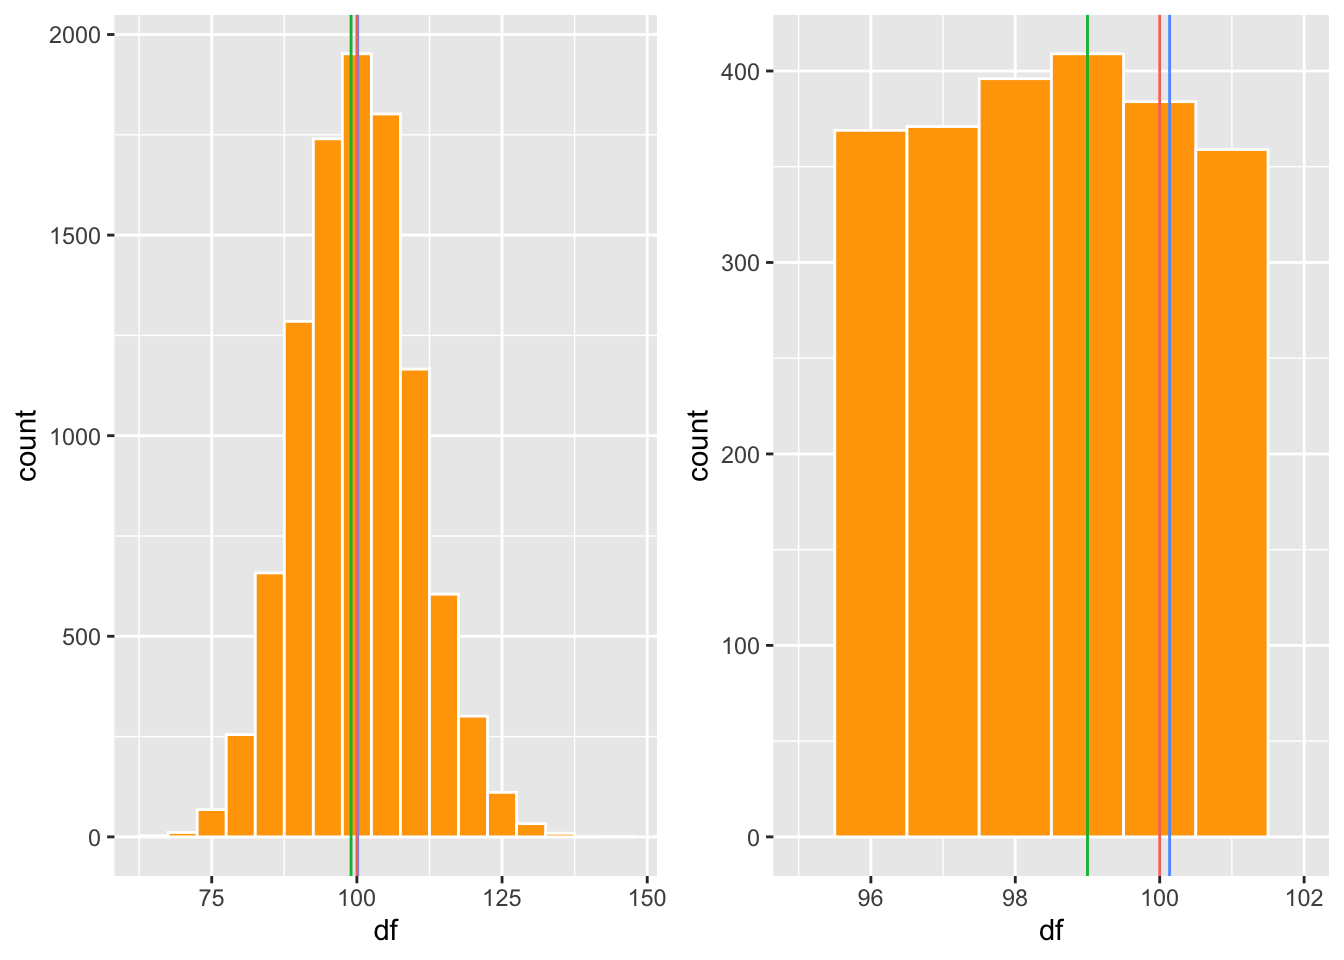
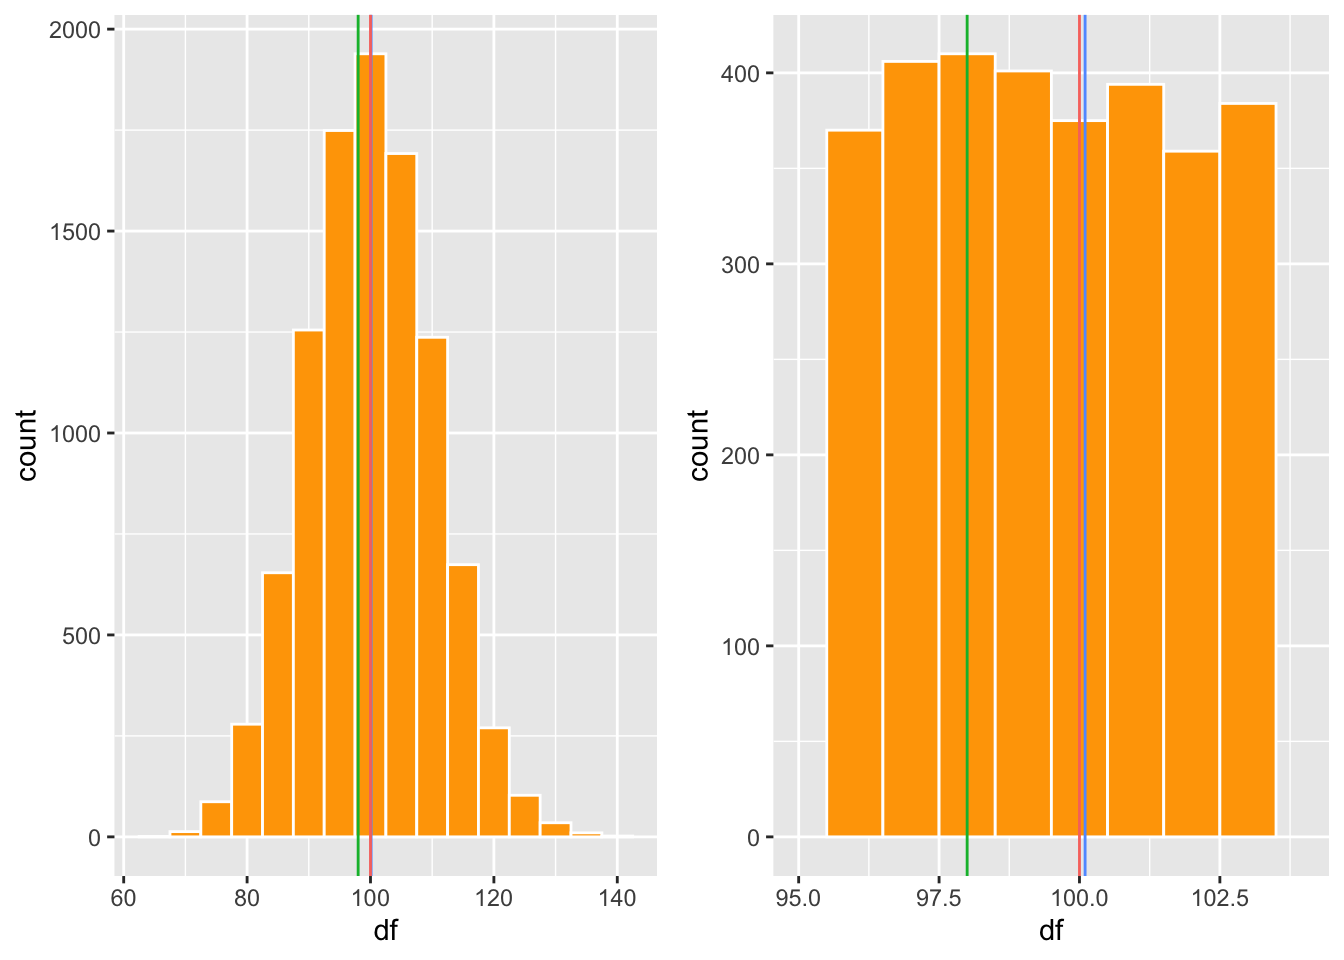
dispersion

diff --git a/Medidas_tendencia_central.html b/Medidas_tendencia_central.html
@@ -379,10 +379,10 @@ div.tocify {
       <a href="Tema_2_Historia.html">Historia breve de la estadística cuantitativa</a>
     </li>
     <li>
-      <a href="Medidas_tendencias_central.html">Medidas de Tedencias Central</a>
+      <a href="Medidas_tendencia_central.html">Medidas de Tedencias Central</a>
     </li>
     <li>
-      <a href="Medidas_disperción.html">Medidas de Disperción</a>
+      <a href="Medidas_dispersión.html">Medidas de Dispersión</a>
     </li>
     <li>
       <a href="Tema_3_Graficos.html">Explorando los datos con gráficos</a>
@@ -443,7 +443,7 @@ div.tocify {
 
 
 <p>Fecha de la ultima revisión</p>
-<pre><code>## [1] &quot;2020-07-12&quot;</code></pre>
+<pre><code>## [1] &quot;2020-07-14&quot;</code></pre>
 <pre class="r"><code>library(ggplot2)
 library(Hmisc)
 library(gridExtra) # Un paquete para organizar las figuras de ggplot2</code></pre>
@@ -512,18 +512,18 @@ b</code></pre>
 </div>
 </div>
 <div id="cuando-es-que-el-promedio-merdiana-y-moda-son-iguales" class="section level1">
-<h1>Cuando es que el promedio, merdiana y moda son iguales</h1>
+<h1>Cuando es que el promedio, merdiana y moda son iguales?</h1>
 <p>Los tres valores de tendencia central son iguales cuando la distribución es normal, conocida también como en forma de campana. Aquí preparo un lista de datos con distribución normal, y evaluamos donde están los tres valores de tendencia central. Se usa la función <strong>rpois</strong>, para crear un conjunto de datos al azar con 100000, datos, un promedio de 100.</p>
 <pre class="r"><code>df=rpois(10000, 100)
 df=data.frame(df)</code></pre>
 <p>Lo que uno observa es que los tres valores son muy cercano uno del otro.</p>
 <pre class="r"><code>mean(df$df)</code></pre>
-<pre><code>## [1] 100.1372</code></pre>
+<pre><code>## [1] 100.1001</code></pre>
 <pre class="r"><code>median(df$df)</code></pre>
 <pre><code>## [1] 100</code></pre>
 <pre class="r"><code>mfv(df$df)</code></pre>
-<pre><code>## [1] 99</code></pre>
-<p>Podemos visualizar estos datos usamos dos gráfico, En el gráfico de la izquierda se ve una distribución normal con las tres lineas (promedio, mediana y moda). En el gráfico de la derecha se observa la misma información pero solamente los valores entre 96 y 101. Se observa que la mediana y el promedio son igual y la moda varia un poco, se encuentra donde la barra es más alta.</p>
+<pre><code>## [1] 98</code></pre>
+<p>Podemos visualizar estos datos usamos dos gráfico, En el gráfico de la izquierda se ve una distribución normal con las tres lineas (promedio, mediana y moda). En el gráfico de la derecha se observa la misma información pero solamente los valores entre 96 y 101. Se observa que la mediana y el promedio son igual y la moda varia un poco, se encuentra donde la barra es más alta. Se observa que los tres valores son cerca del centro.</p>
 <pre class="r"><code>mea=mean(df$df)
 med=median(df$df)
 mod=mfv(df$df)
@@ -534,21 +534,55 @@ mod=mfv(df$df)
 a=ggplot(df, aes(df ))+
   geom_histogram(fill=&quot;orange&quot;, colour=&quot;white&quot;, binwidth = 5)+
   geom_vline(aes(xintercept = mea, colour=&quot;red&quot;))+
-  geom_vline(aes(xintercept = med, colour=&quot;black&quot;))+
+  geom_vline(aes(xintercept = med, colour=&quot;blue&quot;))+
   geom_vline(aes(xintercept = mod, colour=&quot;green&quot;))+
   theme(legend.position = &quot;none&quot;)
 
 b=ggplot(df, aes(df ))+
   geom_histogram(fill=&quot;orange&quot;, colour=&quot;white&quot;, binwidth = 1)+
   geom_vline(aes(xintercept = mea, colour=&quot;red&quot;))+
-  geom_vline(aes(xintercept = med, colour=&quot;black&quot;))+
+  geom_vline(aes(xintercept = med, colour=&quot;blue&quot;))+
   geom_vline(aes(xintercept = mod, colour=&quot;green&quot;))+
-  xlim(95,102)+
+  xlim(95,104)+
   theme(legend.position = &quot;none&quot;)
 
 
 grid.arrange(a,b, ncol=2)</code></pre>
-<p><img src="Medidas_tendencia_central_files/figure-html/unnamed-chunk-12-1.png" width="672" /> ```</p>
+<p><img src="Medidas_tendencia_central_files/figure-html/unnamed-chunk-12-1.png" width="672" /></p>
+<div id="distribucion-cuando-los-tres-valores-de-tendencia-centrtal-no-son-iguales.-en-estas-distribuciones-uno-observa-que-hay-exceso-de-vaslores-pequeños-o-grande.-esto-resulta-en-que-los-tres-indices-de-tendencias-centrales-no-se-encuentra-cerca-uno-del-otro." class="section level2">
+<h2>Distribucion cuando los tres valores de tendencia centrtal no son iguales. En estas distribuciones uno observa que hay exceso de vaslores pequeños o grande. Esto resulta en que los tres indices de tendencias centrales no se encuentra cerca uno del otro.</h2>
+<pre class="r"><code>dfb= round(rbeta(100000, 3,1, ncp = 0),3)
+dfb=data.frame(dfb)
+
+dfbb= round(rbeta(100000, 1,3, ncp = 0),3)
+dfbb=data.frame(dfbb)</code></pre>
+<pre class="r"><code>mea=mean(dfb$dfb)
+med=median(dfb$dfb)
+mod=mfv(dfb$dfb)
+mod</code></pre>
+<pre><code>## [1] 0.998</code></pre>
+<pre class="r"><code>meab=mean(dfbb$dfbb)
+medb=median(dfbb$dfbb)
+modb=mfv(dfbb$dfbb)
+
+
+ggplot(dfb, aes(dfb))+
+  geom_histogram(fill=&quot;orange&quot;, colour=&quot;white&quot;)+
+  geom_vline(aes(xintercept = mea, colour=&quot;red&quot;))+
+  geom_vline(aes(xintercept = med, colour=&quot;black&quot;))+
+  geom_vline(aes(xintercept = mod, colour=&quot;green&quot;))+
+  theme(legend.position = &quot;none&quot;)</code></pre>
+<p><img src="Medidas_tendencia_central_files/figure-html/unnamed-chunk-14-1.png" width="672" /></p>
+<pre class="r"><code>d=ggplot(dfbb, aes(dfbb ))+
+  geom_histogram(fill=&quot;orange&quot;, colour=&quot;white&quot;)+
+  geom_vline(aes(xintercept = meab, colour=&quot;red&quot;))+
+  geom_vline(aes(xintercept = medb, colour=&quot;black&quot;))+
+  geom_vline(aes(xintercept = modb, colour=&quot;green&quot;))+
+  theme(legend.position = &quot;none&quot;)
+
+grid.arrange(c,d, ncol=2)</code></pre>
+<p><img src="Medidas_tendencia_central_files/figure-html/unnamed-chunk-14-2.png" width="672" /></p>
+</div>
 </div>
 
 

diff --git a/Medidas_dispersión.html b/Medidas_dispersión.html
@@ -684,6 +684,7 @@ es_a</code></pre>
 <pre><code>## [1] 0.1444401</code></pre>
 <pre class="r"><code>es_b</code></pre>
 <pre><code>## [1] 1.363112</code></pre>
+<hr />
 </div>
 <div id="el-intervalo-de-confianza-de-95-del-promedio" class="section level1">
 <h1>El intervalo de confianza de 95% del promedio</h1>
@@ -724,9 +725,11 @@ CIb=ggplot(b, aes(b))+
 
 grid.arrange(CIa,CIb, ncol=2)</code></pre>
 <p><img src="Medidas_dispersio%CC%81n_files/figure-html/unnamed-chunk-13-1.png" width="672" /></p>
+<hr />
 <div id="el-intervalos-de-confianza-de-los-datos" class="section level2">
 <h2>El intervalos de confianza de los datos</h2>
 <p>Para tener una idea de la distribución de los datos y cual es el porcentaje de valores que esté incluido (asumiendo una distribución normal). Podemos crear un gráfico que demuestra el porcentaje incluidos basado en la desviación estándar. Nota aquí no es la dispersión del promedio pero la dispersión de los datos en la población.</p>
+<hr />
 </div>
 <div id="rangos-incluidos-en-intervalos-de-confianza" class="section level2">
 <h2>Rangos incluidos en intervalos de confianza</h2>
@@ -773,14 +776,8 @@ promCol=Col%&gt;%
   summarize(Mean=mean(Col))
   
 sdCol=Col%&gt;%
-  summarize(sd=sd(Col))
-
-promCol-3*sdCol</code></pre>
-<pre><code>##       Mean
-## 1 79.30985</code></pre>
-<pre class="r"><code>max(Col$Col)</code></pre>
-<pre><code>## [1] 361.1119</code></pre>
-<p>Visualizar los datos: Uds conoce su nivel de colesterol total? Donde se encuentra en esta distribución?</p>
+  summarize(sd=sd(Col))</code></pre>
+<p>Visualizar los datos: Uds conoce su nivel de colesterol total? Donde se encuentra en esta distribución? Se encuentra en el 68%? Nota que la suma de todos los porcentaje es igual a 100%.</p>
 <pre class="r"><code>library(grid)
 library(gtable)
 
@@ -817,11 +814,12 @@ geom_vline(aes(xintercept = as.numeric(promCol-3*sdCol)), colour=&quot;orange&qu
   annotate(&quot;text&quot;, x=70, y = .0005, label=&quot;0.1%&quot;)+
   annotate(&quot;text&quot;, x=330, y = .0005, label=&quot;0.1%&quot;)</code></pre>
 <p><img src="Medidas_dispersio%CC%81n_files/figure-html/unnamed-chunk-15-1.png" width="672" /></p>
-<pre class="r"><code>labels.comb</code></pre>
-<pre><code>##  [1] &quot;0&quot;          &quot;79&quot;         &quot;\n-3sd&quot;     &quot;118&quot;        &quot;\n-2sd&quot;    
-##  [6] &quot;157&quot;        &quot;\n-1sd&quot;     &quot;197&quot;        &quot;\npromedio&quot; &quot;235&quot;       
-## [11] &quot;\n+1sd&quot;     &quot;274&quot;        &quot;\n+2sd&quot;     &quot;314&quot;        &quot;\n+3sd&quot;    
-## [16] &quot;379&quot;</code></pre>
+<hr />
+</div>
+<div id="otro-ejemplo-de-los-intevalos-de-confianzas" class="section level2">
+<h2>Otro ejemplo de los intevalos de confianzas</h2>
+<div id="la-altura-de-los-humanos" class="section level3">
+<h3>La altura de los humanos</h3>
 <p>Para evaluar el 95% de intervalo de confianza usaremos datos de la alturas de 500 adultos. Estos datos fueron bajado del siguiente website <a href="https://www.kaggle.com/yersever/500-person-gender-height-weight-bodymassindex/data" class="uri">https://www.kaggle.com/yersever/500-person-gender-height-weight-bodymassindex/data</a></p>
 <pre class="r"><code>library(readr)
 Alturas_Humanos &lt;- read_csv(&quot;Data_files_csv/Alturas_Humanos.csv&quot;)
@@ -1238,8 +1236,9 @@ geom_vline(aes(xintercept = as.numeric(promM-2*sdM)), colour=&quot;red&quot;)+
   geom_vline(aes(xintercept = as.numeric(promM+2*sdM)), colour=&quot;red&quot;)</code></pre>
 <p><img src="Medidas_dispersio%CC%81n_files/figure-html/unnamed-chunk-18-1.png" width="672" /></p>
 </div>
-<div id="ahora-prepara-el-mismo-gráfico-para-los-hombres." class="section level2">
-<h2>Ahora prepara el mismo gráfico para los hombres.</h2>
+<div id="ejercicio-ahora-prepara-el-mismo-gráfico-para-los-hombres." class="section level3">
+<h3>Ejercicio: Ahora prepara el mismo gráfico para los hombres.</h3>
+</div>
 </div>
 </div>
 

diff --git a/Tema_2_Historia.html b/Tema_2_Historia.html
@@ -379,10 +379,10 @@ div.tocify {
       <a href="Tema_2_Historia.html">Historia breve de la estadística cuantitativa</a>
     </li>
     <li>
-      <a href="Medidas_tendencias_central.html">Medidas de Tedencias Central</a>
+      <a href="Medidas_tendencia_central.html">Medidas de Tedencias Central</a>
     </li>
     <li>
-      <a href="Medidas_disperción.html">Medidas de Disperción</a>
+      <a href="Medidas_dispersión.html">Medidas de Dispersión</a>
     </li>
     <li>
       <a href="Tema_3_Graficos.html">Explorando los datos con gráficos</a>
@@ -443,7 +443,7 @@ div.tocify {
 
 
 <p>Fecha de la ultima revisión</p>
-<pre><code>## [1] &quot;2020-07-12&quot;</code></pre>
+<pre><code>## [1] &quot;2020-07-14&quot;</code></pre>
 <div id="definición-de-lo-que-es-la-estadística" class="section level2">
 <h2>Definición de lo que es la estadística</h2>
 <p>La estadística es un área de la ciencia de datos que utiliza valores numéricos para evaluar patrones y inferir situaciones futuras. Esta definición es sencilla, pero incluye muchos temas pero lo más importante es el componente de utilizar datos, resumiendo estos en indices o parámetros y utilizar estos para predecir el futuro. La palabra estadística usado en el termino más o menos similar a su definición de hoy probablemente origina del alemán <em>Statistik</em> por Gottfried Achenwall (1749). Donde el termino era para la descripción de datos del estado. Es solamente en 1791 por Sir John Sinclair que el termino comenzó a ser utilizado para la descripción de conjuntos de datos en general sin ser limitado a datos de un estado/pais.</p>

diff --git a/Tema_4_supuestos.html b/Tema_4_supuestos.html
@@ -304,10 +304,10 @@ $(document).ready(function () {
       <a href="Tema_2_Historia.html">Historia breve de la estadística cuantitativa</a>
     </li>
     <li>
-      <a href="Medidas_tendencias_central.html">Medidas de Tedencias Central</a>
+      <a href="Medidas_tendencia_central.html">Medidas de Tedencias Central</a>
     </li>
     <li>
-      <a href="Medidas_disperción.html">Medidas de Disperción</a>
+      <a href="Medidas_dispersión.html">Medidas de Dispersión</a>
     </li>
     <li>
       <a href="Tema_3_Graficos.html">Explorando los datos con gráficos</a>
@@ -369,7 +369,7 @@ $(document).ready(function () {
 
 
 <p>Fecha de la ultima revisión</p>
-<pre><code>## [1] &quot;2020-07-12&quot;</code></pre>
+<pre><code>## [1] &quot;2020-07-14&quot;</code></pre>
 <p>Add and activate packages. NOTE THE NEW FUNCTION to install all packages ONLY IF Needed…..</p>
 <p>Visualize the distribution of the data “Histogram”</p>
 <p>Los datos son de un festival de Rock y Heavy Metal en UK La categoria son 0 = You smell like a rotting corpse 4 = You smell like of sweet roses</p>

diff --git a/R_basico.html b/R_basico.html
@@ -379,10 +379,10 @@ div.tocify {
       <a href="Tema_2_Historia.html">Historia breve de la estadística cuantitativa</a>
     </li>
     <li>
-      <a href="Medidas_tendencias_central.html">Medidas de Tedencias Central</a>
+      <a href="Medidas_tendencia_central.html">Medidas de Tedencias Central</a>
     </li>
     <li>
-      <a href="Medidas_disperción.html">Medidas de Disperción</a>
+      <a href="Medidas_dispersión.html">Medidas de Dispersión</a>
     </li>
     <li>
       <a href="Tema_3_Graficos.html">Explorando los datos con gráficos</a>
@@ -443,7 +443,7 @@ div.tocify {
 
 
 <p>Fecha de la ultima revisión</p>
-<pre><code>## [1] &quot;2020-07-12&quot;</code></pre>
+<pre><code>## [1] &quot;2020-07-14&quot;</code></pre>
 <p>En este veremos como se hace cálculos básicos en R. NOta que aqui estamos usando R, como si fuese una calculadora. Realmente para la gran mayoría de los ejemplos aquí no hay ninguna necesidad de utilizar R para los siguientes análisis. Los objetivos son</p>
 <ol style="list-style-type: decimal">
 <li>Familiarizarse con funciones básica</li>

diff --git a/Tema_3_Graficos.html b/Tema_3_Graficos.html
@@ -380,10 +380,10 @@ div.tocify {
       <a href="Tema_2_Historia.html">Historia breve de la estadística cuantitativa</a>
     </li>
     <li>
-      <a href="Medidas_tendencias_central.html">Medidas de Tedencias Central</a>
+      <a href="Medidas_tendencia_central.html">Medidas de Tedencias Central</a>
     </li>
     <li>
-      <a href="Medidas_disperción.html">Medidas de Disperción</a>
+      <a href="Medidas_dispersión.html">Medidas de Dispersión</a>
     </li>
     <li>
       <a href="Tema_3_Graficos.html">Explorando los datos con gráficos</a>
@@ -445,7 +445,7 @@ div.tocify {
 
 
 <p>Fecha de la ultima revisión</p>
-<pre><code>## [1] &quot;2020-07-12&quot;</code></pre>
+<pre><code>## [1] &quot;2020-07-14&quot;</code></pre>
 <pre class="r"><code>library(ggplot2)</code></pre>
 <p>La información utilizada en este documento proviene en parte del libro <em>Discovering Statistics using R</em> por Andy Field, Jeremy Miles y Zoë Field (2014).</p>
 <div id="como-crear-una-gráfica-de-regresión-lineal-usando-ggplot" class="section level1">

diff --git a/Descripción.html b/Descripción.html
@@ -379,10 +379,10 @@ div.tocify {
       <a href="Tema_2_Historia.html">Historia breve de la estadística cuantitativa</a>
     </li>
     <li>
-      <a href="Medidas_tendencias_central.html">Medidas de Tedencias Central</a>
+      <a href="Medidas_tendencia_central.html">Medidas de Tedencias Central</a>
     </li>
     <li>
-      <a href="Medidas_disperción.html">Medidas de Disperción</a>
+      <a href="Medidas_dispersión.html">Medidas de Dispersión</a>
     </li>
     <li>
       <a href="Tema_3_Graficos.html">Explorando los datos con gráficos</a>
@@ -443,7 +443,7 @@ div.tocify {
 
 
 <p>Fecha de la ultima revisión</p>
-<pre><code>## [1] &quot;2020-07-12&quot;</code></pre>
+<pre><code>## [1] &quot;2020-07-14&quot;</code></pre>
 <div id="biol3740" class="section level2">
 <h2>BIOL3740</h2>
 <p>Este sitio es una guía para el curso de Biometría, BIOL3740 en la Universidad de Puerto Rico en Humacao. El objetivo de este sitio es presentar una organización simple y básica para el curso de estadística con ejemplos diversos.</p>

diff --git a/Tema_1_Intro.html b/Tema_1_Intro.html
@@ -380,10 +380,10 @@ div.tocify {
       <a href="Tema_2_Historia.html">Historia breve de la estadística cuantitativa</a>
     </li>
     <li>
-      <a href="Medidas_tendencias_central.html">Medidas de Tedencias Central</a>
+      <a href="Medidas_tendencia_central.html">Medidas de Tedencias Central</a>
     </li>
     <li>
-      <a href="Medidas_disperción.html">Medidas de Disperción</a>
+      <a href="Medidas_dispersión.html">Medidas de Dispersión</a>
     </li>
     <li>
       <a href="Tema_3_Graficos.html">Explorando los datos con gráficos</a>
@@ -450,7 +450,7 @@ div.tocify {
 <div style="page-break-after: always;"></div>
 <hr />
 <p>Fecha de la ultima revisión</p>
-<pre><code>## [1] &quot;2020-07-12&quot;</code></pre>
+<pre><code>## [1] &quot;2020-07-14&quot;</code></pre>
 </div>
 <div id="el-proceso-de-investigación" class="section level1">
 <h1>El proceso de investigación:</h1>

diff --git a/schedule.html b/schedule.html
@@ -304,10 +304,10 @@ $(document).ready(function () {
       <a href="Tema_2_Historia.html">Historia breve de la estadística cuantitativa</a>
     </li>
     <li>
-      <a href="Medidas_tendencias_central.html">Medidas de Tedencias Central</a>
+      <a href="Medidas_tendencia_central.html">Medidas de Tedencias Central</a>
     </li>
     <li>
-      <a href="Medidas_disperción.html">Medidas de Disperción</a>
+      <a href="Medidas_dispersión.html">Medidas de Dispersión</a>
     </li>
     <li>
       <a href="Tema_3_Graficos.html">Explorando los datos con gráficos</a>
@@ -369,7 +369,7 @@ $(document).ready(function () {
 
 
 <p>Fecha de la ultima revisión</p>
-<pre><code>## [1] &quot;2020-07-12&quot;</code></pre>
+<pre><code>## [1] &quot;2020-07-14&quot;</code></pre>
 <p>Favor mirar el calendario regularmente, ya que este puede cambiar!</p>
 <table>
 <colgroup>

diff --git a/2_Activity_R4DS.html b/2_Activity_R4DS.html
@@ -304,10 +304,10 @@ $(document).ready(function () {
       <a href="Tema_2_Historia.html">Historia breve de la estadística cuantitativa</a>
     </li>
     <li>
-      <a href="Medidas_tendencias_central.html">Medidas de Tedencias Central</a>
+      <a href="Medidas_tendencia_central.html">Medidas de Tedencias Central</a>
     </li>
     <li>
-      <a href="Medidas_disperción.html">Medidas de Disperción</a>
+      <a href="Medidas_dispersión.html">Medidas de Dispersión</a>
     </li>
     <li>
       <a href="Tema_3_Graficos.html">Explorando los datos con gráficos</a>

diff --git a/Introducción.html b/Introducción.html
@@ -379,10 +379,10 @@ div.tocify {
       <a href="Tema_2_Historia.html">Historia breve de la estadística cuantitativa</a>
     </li>
     <li>
-      <a href="Medidas_tendencias_central.html">Medidas de Tedencias Central</a>
+      <a href="Medidas_tendencia_central.html">Medidas de Tedencias Central</a>
     </li>
     <li>
-      <a href="Medidas_disperción.html">Medidas de Disperción</a>
+      <a href="Medidas_dispersión.html">Medidas de Dispersión</a>
     </li>
     <li>
       <a href="Tema_3_Graficos.html">Explorando los datos con gráficos</a>

diff --git a/Plagio.html b/Plagio.html
@@ -379,10 +379,10 @@ div.tocify {
       <a href="Tema_2_Historia.html">Historia breve de la estadística cuantitativa</a>
     </li>
     <li>
-      <a href="Medidas_tendencias_central.html">Medidas de Tedencias Central</a>
+      <a href="Medidas_tendencia_central.html">Medidas de Tedencias Central</a>
     </li>
     <li>
-      <a href="Medidas_disperción.html">Medidas de Disperción</a>
+      <a href="Medidas_dispersión.html">Medidas de Dispersión</a>
     </li>
     <li>
       <a href="Tema_3_Graficos.html">Explorando los datos con gráficos</a>
